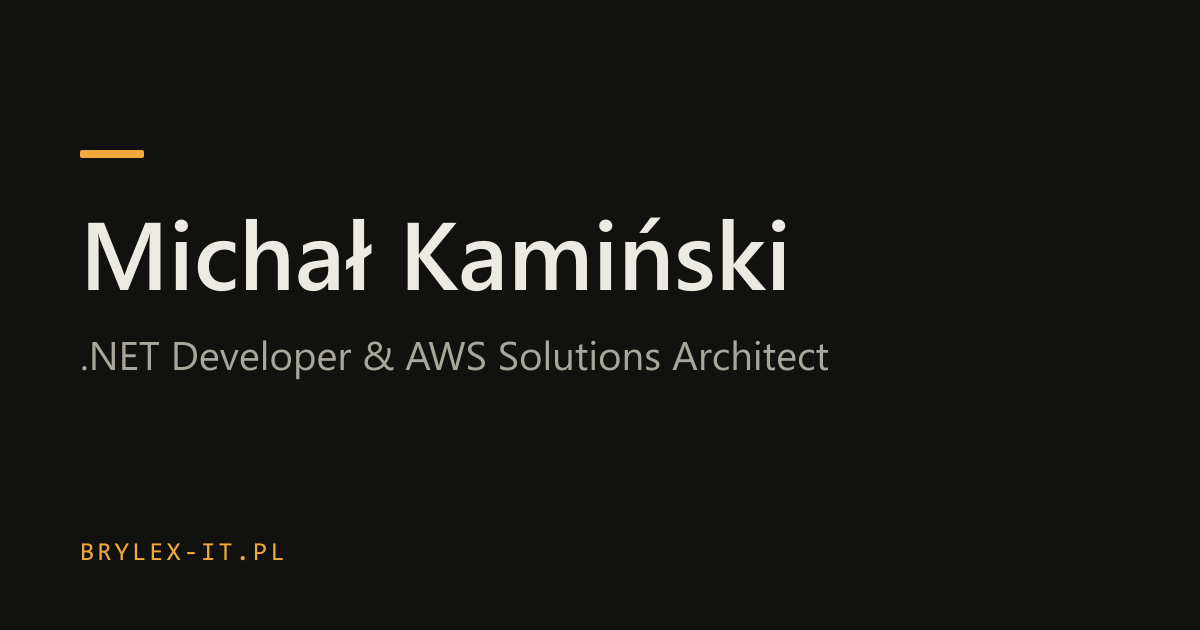
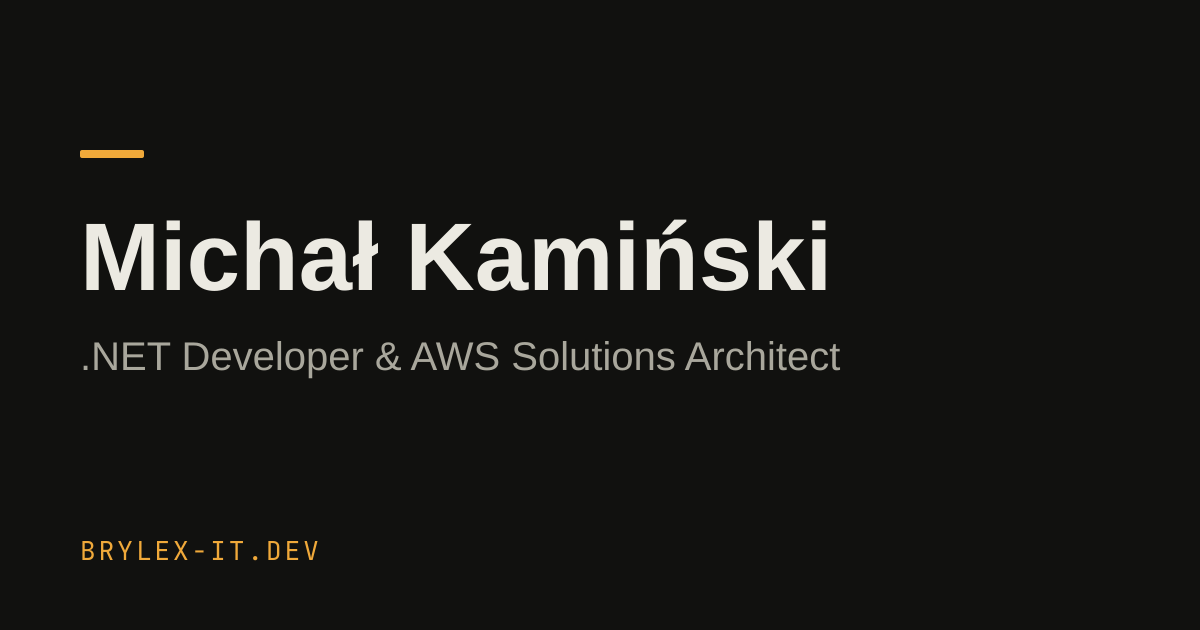
Move main domain to brylex-it.dev
brylex-it.pl stays as a 301 redirect, configured in Vercel project domains.
Regenerate the OG image with the new host.

Changed region(s): [[0.0617, 0.3317, 0.7092, 0.4825], [0.0617, 0.5429, 0.7092, 0.6032], [0.0617, 0.8444, 0.2775, 0.9048]]

diff --git a/scripts/generate-og.ts b/scripts/generate-og.ts
@@ -15,7 +15,7 @@ const HEIGHT = 630;
 
 const name = cv.basics.name;
 const role = '.NET Developer & AWS Solutions Architect';
-const host = new URL(cv.basics.url || 'https://brylex-it.pl').hostname;
+const host = new URL(cv.basics.url || 'https://brylex-it.dev').hostname;
 
 const escapeXml = (text: string) => text.replace(/&/g, '&amp;').replace(/</g, '&lt;').replace(/>/g, '&gt;');
 

diff --git a/CLAUDE.md b/CLAUDE.md
@@ -7,7 +7,7 @@ Personal portfolio + blog for Michał Kamiński. Astro 7 (static output), Tailwi
 - `npm run dev` — dev server on `localhost:4321`; draft posts are visible here only.
 - `npm run build` — `astro check` then `astro build` to `dist/`. Run this to verify changes; it must finish with 0 errors.
 - `npx astro sync` — regenerate content-collection types after changing `src/content.config.ts`.
-- `SITE_URL=https://… npm run build` — overrides `site` (defaults to `https://brylex-it.pl`; used for canonical URLs, RSS, sitemap).
+- `SITE_URL=https://… npm run build` — overrides `site` (defaults to `https://brylex-it.dev`; used for canonical URLs, RSS, sitemap).
 
 ## Where things come from
 
@@ -39,5 +39,5 @@ The look follows the **Tallydial** design system ("control room": a single dark 
 ## Decisions already made
 
 - Command palette (Ctrl K) was intentionally dropped for now.
-- Hosting is Vercel (static output, no adapter) with the domain `brylex-it.pl`. The original Hostinger host couldn't be used, so the Node adapter was added and then removed. `@astrojs/sitemap` generates the sitemap.
+- Hosting is Vercel (static output, no adapter) with the domain `brylex-it.dev`; the old `brylex-it.pl` stays as a permanent (301) redirect to it, configured in the Vercel project domains, not in code. The original Hostinger host couldn't be used, so the Node adapter was added and then removed. `@astrojs/sitemap` generates the sitemap.
 - Git remote: `github.com/MichalBrylKaminski/personal-portfolio`. Main branch is `master`.
